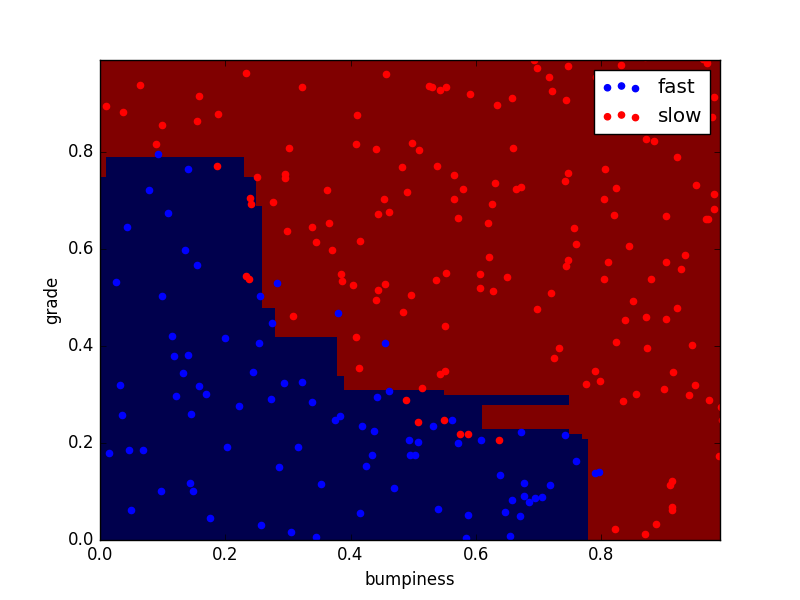
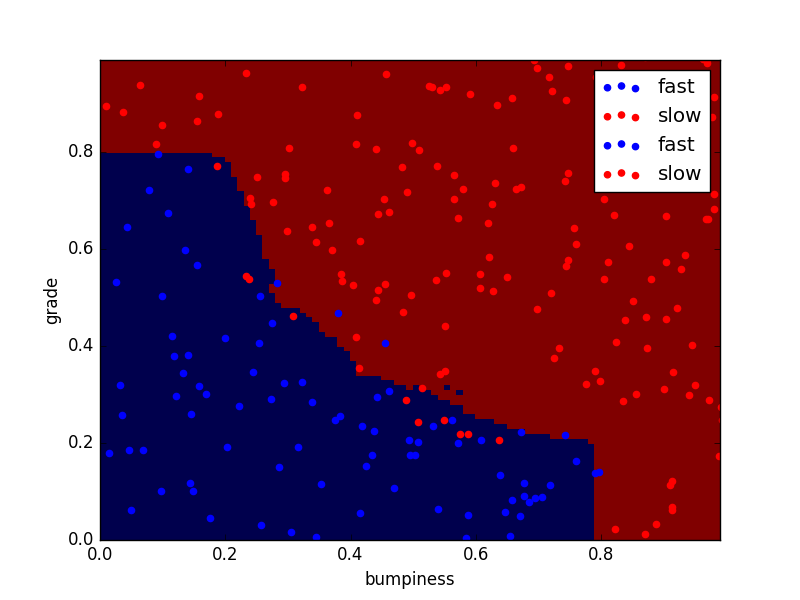
autosklearn solution

diff --git a/choose_your_own/your_algorithm.py b/choose_your_own/your_algorithm.py
@@ -3,6 +3,7 @@
 import matplotlib.pyplot as plt
 from prep_terrain_data import makeTerrainData
 from class_vis import prettyPicture
+import numpy as np
 
 features_train, labels_train, features_test, labels_test = makeTerrainData()
 
@@ -24,7 +25,7 @@ plt.scatter(grade_slow, bumpy_slow, color = "r", label="slow")
 plt.legend()
 plt.xlabel("bumpiness")
 plt.ylabel("grade")
-plt.show()
+#plt.show()
 ################################################################################
 
 
@@ -32,14 +33,14 @@ plt.show()
 ### visualization code (prettyPicture) to show you the decision boundary
 
 
-from sklearn.ensemble import RandomForestClassifier
+from autosklearn.classification import AutoSklearnClassifier
 
-clf = RandomForestClassifier(min_samples_split = 50)
+clf = AutoSklearnClassifier(time_left_for_this_task=3600)
 
-clf = clf.fit(features_train, labels_train)
+clf.fit(features_train, labels_train)
 
 from sklearn.metrics import accuracy_score
-print(accuracy_score(clf.predict(features_test), labels_test))
+print(accuracy_score(clf.predict(np.array(features_test)), labels_test))
 
 
 try:
